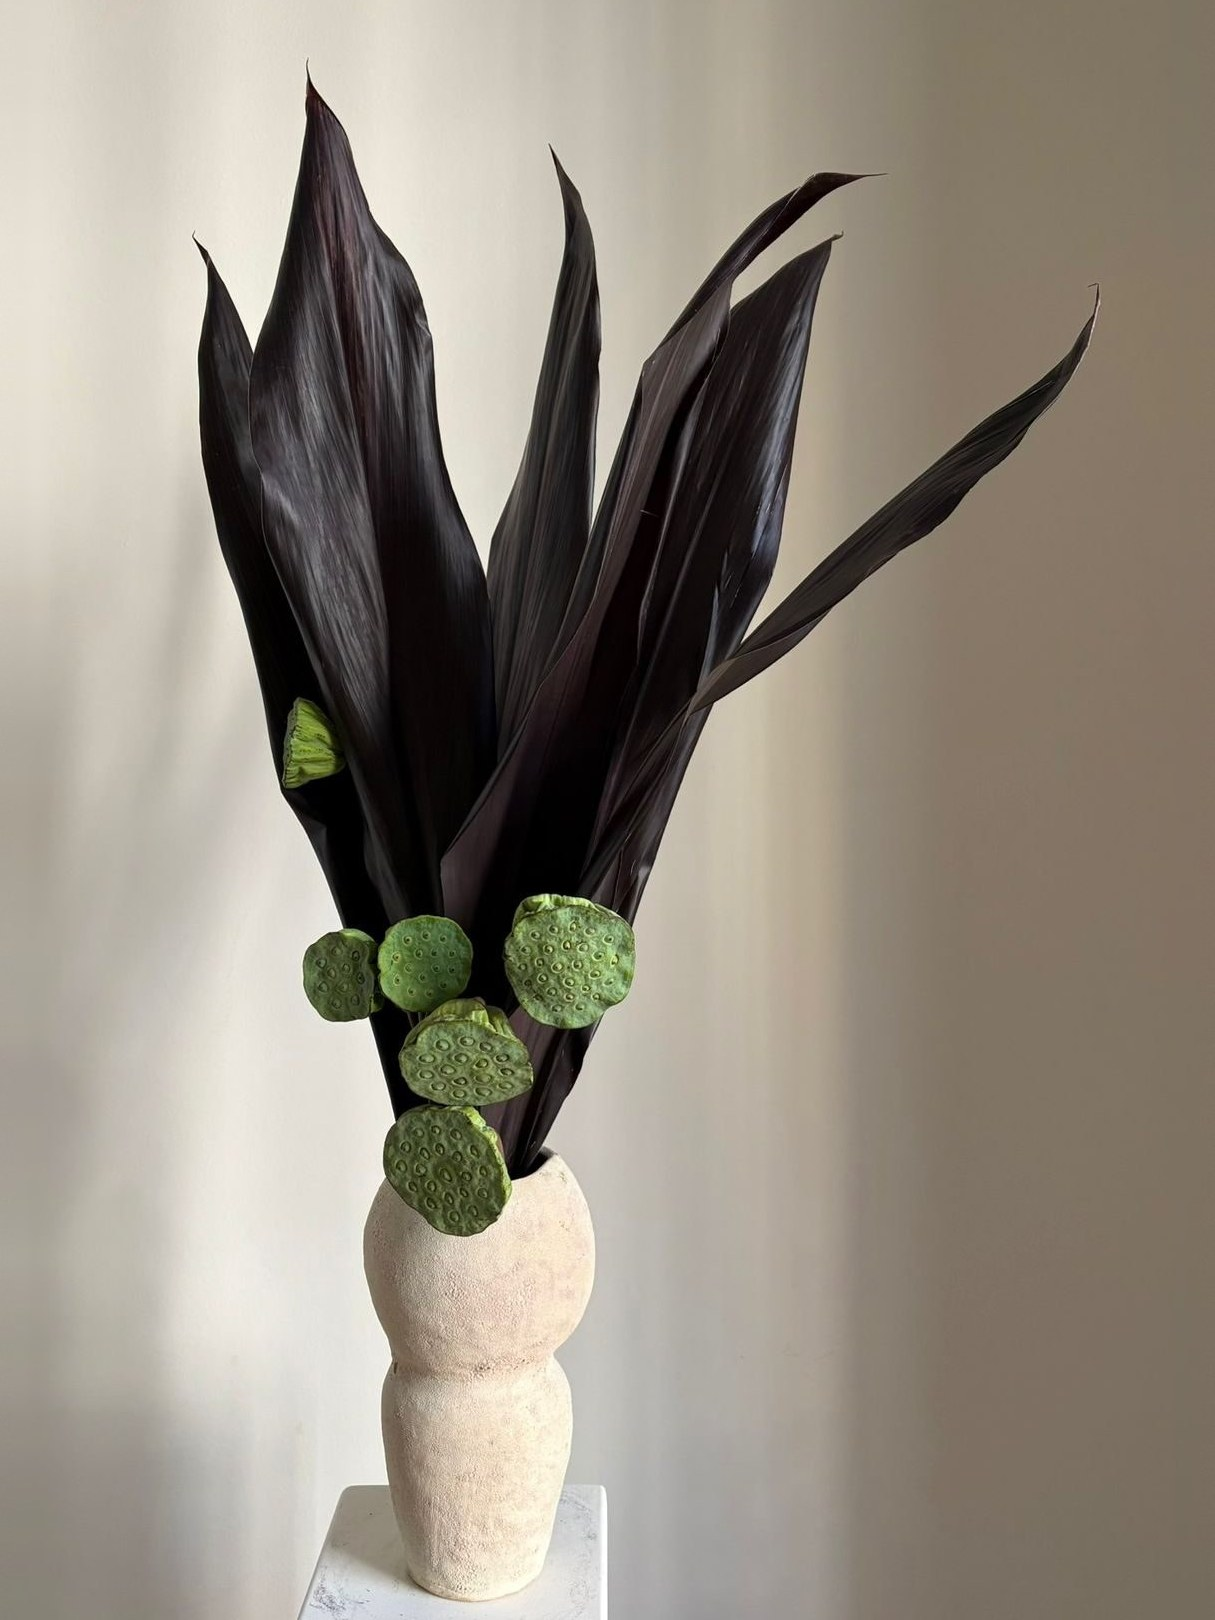
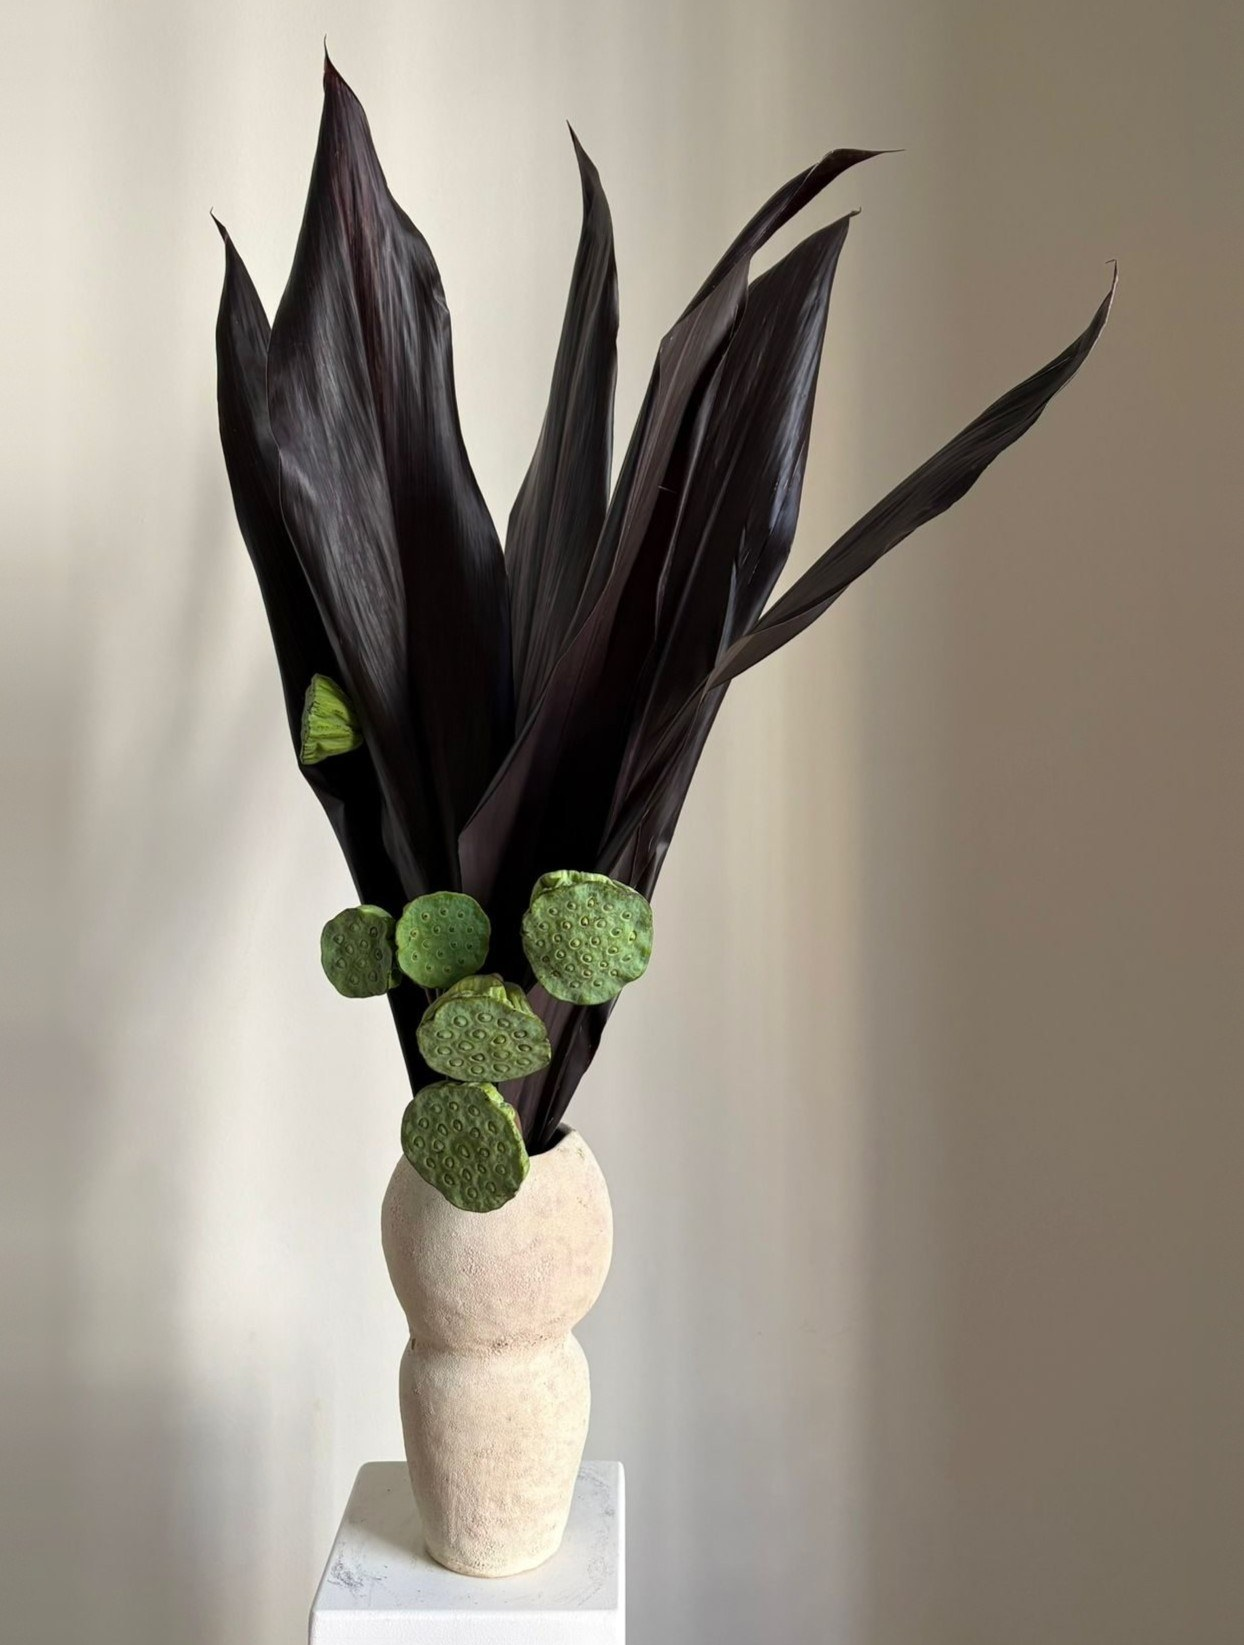
Foto Moire 4: taglio definitivo dell'utente (v=9)

diff --git a/en/moire.html b/en/moire.html
@@ -127,8 +127,8 @@
             </figure>
             <figure class="dettaglio__figure">
               <picture>
-                <source srcset="../img/dettaglio-fiori-moire-celeste-milano.webp?v=8" type="image/webp">
-                <img src="../img/dettaglio-fiori-moire-celeste-milano.jpg?v=8" width="1215" height="1620" alt="Moiré — Composizione CÉLESTE Milano, foglie scure e loto | Dark foliage and lotus composition Milan" loading="lazy" decoding="async">
+                <source srcset="../img/dettaglio-fiori-moire-celeste-milano.webp?v=9" type="image/webp">
+                <img src="../img/dettaglio-fiori-moire-celeste-milano.jpg?v=9" width="1244" height="1645" alt="Moiré — Composizione CÉLESTE Milano, foglie scure e loto | Dark foliage and lotus composition Milan" loading="lazy" decoding="async">
               </picture>
               <figcaption class="dettaglio__caption">In photo: small size. <span class="dettaglio__price">130€</span></figcaption>
             </figure>

diff --git a/moire.html b/moire.html
@@ -127,8 +127,8 @@
             </figure>
             <figure class="dettaglio__figure">
               <picture>
-                <source srcset="img/dettaglio-fiori-moire-celeste-milano.webp?v=8" type="image/webp">
-                <img src="img/dettaglio-fiori-moire-celeste-milano.jpg?v=8" width="1215" height="1620" alt="Moiré — Composizione CÉLESTE Milano, foglie scure e loto | Dark foliage and lotus composition Milan" loading="lazy" decoding="async">
+                <source srcset="img/dettaglio-fiori-moire-celeste-milano.webp?v=9" type="image/webp">
+                <img src="img/dettaglio-fiori-moire-celeste-milano.jpg?v=9" width="1244" height="1645" alt="Moiré — Composizione CÉLESTE Milano, foglie scure e loto | Dark foliage and lotus composition Milan" loading="lazy" decoding="async">
               </picture>
               <figcaption class="dettaglio__caption">In foto: formato piccolo. <span class="dettaglio__price">130€</span></figcaption>
             </figure>